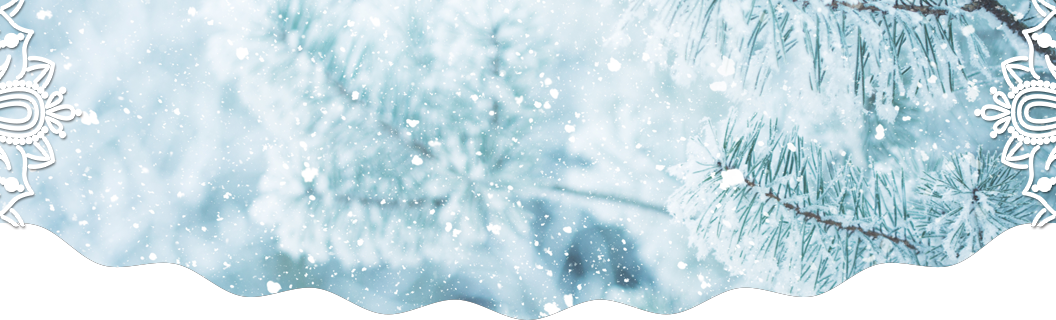
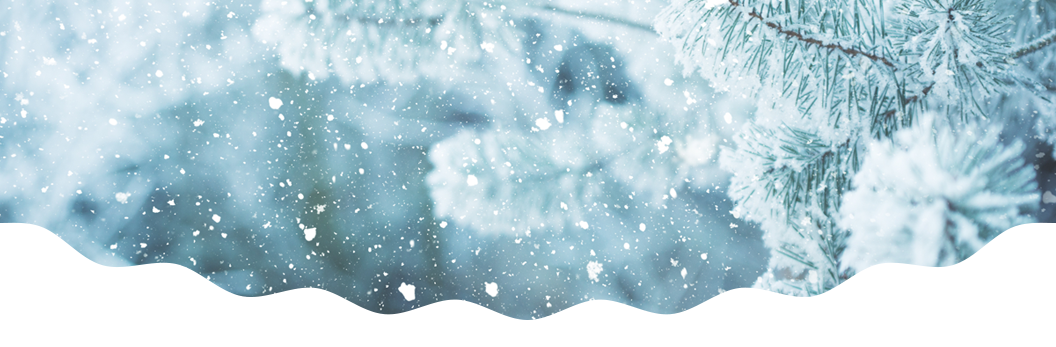
change images of header

diff --git a/src/components/Yangiliklar/index.jsx b/src/components/Yangiliklar/index.jsx
@@ -5,16 +5,16 @@ import { Swiper, SwiperSlide } from 'swiper/react';
 import 'swiper/css';
 import 'swiper/css/effect-coverflow';
 import 'swiper/css/pagination';
-import '../../../src/components/App/style.css';
+import './styles.css';
 import { Autoplay, EffectCoverflow, Pagination } from 'swiper/modules';
-import { MdOutlineKeyboardDoubleArrowRight } from 'react-icons/md'
-import { MdOutlineKeyboardDoubleArrowLeft } from 'react-icons/md'
+// import { MdOutlineKeyboardDoubleArrowRight } from 'react-icons/md'
+// import { MdOutlineKeyboardDoubleArrowLeft } from 'react-icons/md'
 
 const Yangiliklar = () => {
     const [loading, setLoading] = useState(true);
     const [news, setNews] = useState(null);
-    const cutTitle = 100;
-    const cutBody = 340;
+    const cutTitle = 200;
+    const cutBody = 500;
     useEffect(() => {
         const loadPost = async () => {
             try {
@@ -67,7 +67,7 @@ const Yangiliklar = () => {
                         {news && news.map((item, idx) => (
                             <SwiperSlide className='w-[800px!important] bg-white flex justify-center rounded-3xl overflow-hidden mx-[100px]' key={idx}>
                                 <div>
-                                    <img className='block w-[800px] h-[900px] rounded-3xl object-cover' src={item.rasm} alt="yangilik img" />
+                                    <img className='block w-[800px] h-[1000px] rounded-3xl object-cover' src={item.rasm} alt="yangilik img" />
                                 </div>
                                 <div>
                                 <h1 className='text-3xl text-center px-5 py-5'>{item.title.length > cutTitle ? item.title.slice(0, cutTitle) + "...": item.title}</h1>
@@ -76,10 +76,10 @@ const Yangiliklar = () => {
                             </SwiperSlide>
                         ))}
                     </Swiper>
-                    <div className='w-[800px] bg-blue-700 flex justify-between items-center mx-auto rounded-2xl p-5 mt-10'>
+                    {/* <div className='w-[800px] bg-blue-700 flex justify-between items-center mx-auto rounded-2xl p-5 mt-10'>
                     <button className='swiper-button-prev text-white text-8xl'><MdOutlineKeyboardDoubleArrowLeft /></button>
                     <button className='swiper-button-next text-white text-8xl'><MdOutlineKeyboardDoubleArrowRight /></button>
-                    </div>
+                    </div> */}
                     </div>
                 )
             }

diff --git a/src/components/App/style.css b/src/components/App/style.css
@@ -8,17 +8,3 @@
     background-color: rgb(206, 206, 206);
 }
 
-.swiper-pagination-bullet {
-    background: #ddd;
-    width: 20px;
-    height: 20px;
-    border-radius: 5px;
-    opacity: 1;
-}
-
-.swiper-pagination-bullet-active {
-    background-color: blue;
-    width: 50px;
-    height: 20px;
-    border-radius: 5px;
-}

diff --git a/src/components/Yangiliklar/styles.css b/src/components/Yangiliklar/styles.css
@@ -1,0 +1,14 @@
+.swiper-pagination-bullet {
+    background: #ddd;
+    width: 20px;
+    height: 20px;
+    border-radius: 5px;
+    opacity: 1;
+}
+
+.swiper-pagination-bullet-active {
+    background-color: blue;
+    width: 50px;
+    height: 20px;
+    border-radius: 5px;
+}
